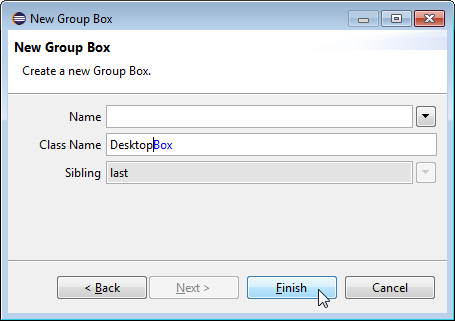
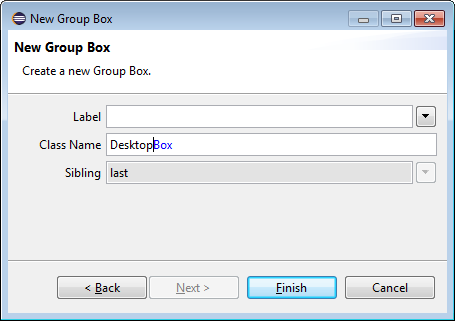
polish helloworld

Changed region(s): [[0.5231, 0.8411, 0.7385, 0.9657], [0.1538, 0.3427, 0.2462, 0.3738]]

diff --git a/tex/modules/HelloWorldBackend.tex b/tex/modules/HelloWorldBackend.tex
@@ -6,15 +6,13 @@
 % =========================================================================== %
 
 
-The responsibility of the server part in our ''Hello World'' application is to provide an initial text content for the message field in the client's user interface.
+The responsibility of the Scout server in our ''Hello World'' application is to provide an initial text content for the message field in the client's user interface.
 We implement this behaviour in the \java{load} method of the server's \java{DesktopService}.
-An empty stub for the \java{load} method and the \java{DesktopService} service have already been created during the initial project creation step described in \secref{create_project_simple}.
-The \java{DesktopService} represents the server service corresponding to the \java{DesktopForm} on the client side.
-This initial setup represents Scout's standard form processing mechanism where client forms and server services typically come in pairs.
+An empty stub for the \java{load} method of the \java{DesktopService} service has already been created during the initial project creation step. 
 
-Whenever the client's user interface displays a form to the user, the client connects to the server and calls the \java{load} method of the corresponding server service.
-We can now add the business logic to the \java{load} method of the server's \java{DesktopService} to implement the desired behaviour.
-And this is the last missing piece to complete the ''Hello World'' application.
+To navigate to the implementation of the desktop service in the Scout SDK, we first expand the blue top-level \node{server} in the Scout Explorer.
+Below the server node, we then expand the \folder{Services} which shows the \element{DesktopService} element.
+Expanding this \element{DesktopService} node, the \java{load} method becomes visible as shown in \figref{helloworld_load_servicemethod}.
 
 \begin{figure}
 \includegraphics[width=14cm]{sdk_server_desktopservice_load.png}
@@ -23,35 +21,40 @@ In this folder the \element{load} method of \element{DesktopService} is selected
 \figlabel{helloworld_load_servicemethod}
 \end{figure}
 
-To navigate to the implementation of the desktop service in the Scout SDK, we first expand the blue top-level \node{server} in the Scout Explorer.
-Below the server node, we then expand the \folder{Services} which shows the \element{DesktopService} element.
-Expanding this \element{DesktopService} node, the \java{load} method becomes visible as shown in \figref{helloworld_load_servicemethod}.
+The \java{DesktopService} represents the server service corresponding to the \java{DesktopForm} on the client side.
+This initial setup represents Scout's default where client forms and server services typically come in pairs.
+Whenever the client's user interface displays a form to the user, the client connects to the server and calls the \java{load} method of the corresponding server service.
+We just need to add our business logic to the \java{load} method of the server's \java{DesktopService}.
 
-\begin{lstlisting}[backgroundcolor=\color{white}]
-  @Override
-  public DesktopFormData load(DesktopFormData formData) throws ProcessingException {
-    //TODO [mzi] Auto-generated method stub.
-    return formData;
-  }
-\end{lstlisting}
-  
 According to the signature of the \java{load} method, a \java{formData} object is passed into this method that is then handed back in the return statement.
-To complete the implementation of the \java{load} method it is sufficient to assign the text 'hello world!' to the message field part of the form data.
-The only line of Java code we write in our ''Hello World'' application is printed below.
-For the complete implementation of the load method see \lstref{helloworld.load}.
+To complete the implementation of the \java{load} method it is sufficient to assign the text 'hello world!' to the message field part of the form data according to the following line.
 
 \begin{lstlisting}[backgroundcolor=\color{white}]
   formData.getMessage().setValue("Hello World!");
 \end{lstlisting}
 
-\lstinputlisting[
-  label=\lstlabel{helloworld.load},
-  caption=Assigning ''Hello World!'' to the form data's message field.,
-  index={DesktopFormData,DesktopProcessService},
-  linerange={10-15},
-  float
-]
-{../code/helloworld/org.eclipse.scout.helloworld.server/src/org/eclipse/scout/helloworld/server/services/DesktopService.java}
+The complete implementation of the load method is provided below.
+With this last element we have completed the Scout ''Hello World'' application.
+
+\begin{lstlisting}[backgroundcolor=\color{white}]
+  @Override
+  public DesktopFormData load(DesktopFormData formData) throws ProcessingException {
+    formData.getMessage().setValue("Hello World!"); 
+    return formData;
+  }
+\end{lstlisting}
+
+\begin{figure}
+\includegraphics[width=4.5cm]{helloworld_swt.png} \hspace{3mm}
+\includegraphics[width=4.5cm]{helloworld_web.png} \hspace{3mm}
+\includegraphics[width=4.5cm]{helloworld_mobile.png}
+\caption{Running the complete ''Hello World!'' application with an SWT client, as a web application and a mobile application.}
+\figlabel{helloworld_finished}
+\end{figure}
+
+We are now ready to run the completed ''Hello World!'' application by first starting the server and then the clients. 
+This results in running clients as shown in \figref{helloworld_finished}. 
+Congratulations, you just have successfully implemented your first Scout client server application!
 
 % =========================================================================== %
 % EOF TeX input file

diff --git a/tex/modules/HelloWorldFrontend.tex b/tex/modules/HelloWorldFrontend.tex
@@ -8,10 +8,12 @@
 The project creation step has created a Scout client that displays an empty desktop form.
 We will now add widgets to the client's desktop form that will later display the ''Hello World!'' message.
 
-To add any widgets to the desktop form we first need to navigate to the \element{DesktopForm} in the Scout Explorer.
-By clicking on the small triangle icon on the left hand side of the \element{DesktopForm} this element is expanded and the \element{MainBox} element becomes visible below.
+To add any widgets to the desktop form, we first need to navigate to the \element{DesktopForm} in the Scout Explorer.
+For this, first navigate to the orange client node in the Scout Explorer view.
+Then, expand the \element{Forms} folder by clicking on the small triangle icon, and further expand the \element{DesktopForm}. 
+As a result, the \element{MainBox} element becomes visible below the desktop form as shown in \figref{new_field_context_menu}. 
 With a click of the right mouse button over the \element{MainBox}, the available context menus are displayed.
-To start the form field wizard we select the \menu{New Form Field ...} as shown in \figref{new_field_context_menu}.
+To start the form field wizard we select the \menu{New Form Field ...}.
 
 \begin{figure}
 \includegraphics[width=8cm]{sdk_new_field_wizard_menu.png} 
@@ -19,14 +21,7 @@ To start the form field wizard we select the \menu{New Form Field ...} as shown 
 \figlabel{new_field_context_menu}
 \end{figure}
 
-% In the steps described below, we use the \wizard{New Form Field} provided by the Scout SDK. 
-% First, we add a group box field to the desktop form.
-% Then, we apply this wizard a second time to add the actual text widget\footnote{
-% Adding top level group boxes to a form helps in structuring the form layout, especially when a form contains a large number of form fields.
-% }.
-%Before we add the actual text field widget to the desktop form, we create a group box widget that will later contain the text field. 
-
-In the first step of the form field wizard shown on in \figref{helloworld_groupboxfield} we choose \java{GroupBox} as the form field type.
+In the first step of the form field wizard shown on in \figref{helloworld_groupboxfield} we choose \java{GroupBox} as the form field type and click on the \button{Next}.
 In the second wizard step, we enter 'Desktop' into the \field{Class Name} before we close the wizard with the \button{Finish}.
 The Scout SDK will then add the necessary Java code for the \java{DesktopBox} in the background.
 
@@ -39,12 +34,12 @@ The Scout SDK will then add the necessary Java code for the \java{DesktopBox} in
 \end{figure}
 
 We can now add the text field widget to the group box just created.
-To do this, we first expand the \element{MainBox} in the Scout Explorer view. 
-This expands the main box node and makes the \element{DesktopBox} element visible.
-On the \element{DesktopBox} we can again use the \menu{New Form Field ...}.
-In the first wizard step, we select \element{StringField} as the form field type and click the \button{Next}.
-In the second wizard step, we enter 'Message' into the \field{Name}.
+To do this, we expand the \element{MainBox} in the Scout Explorer view to access the newly created \element{DesktopBox} element. 
+On the \element{DesktopBox} we can then use the \menu{New Form Field ...} again.
+In the first wizard step, we select \element{StringField} as the form field type. 
+To select the \element{StringField} type you can either scroll down the list of available types or enter ''st'' into the field above the field type list. 
 
+In the second wizard step, we enter 'Message' into the \field{Label}.
 As we do not yet have the text 'Message' available in our ''Hello World'' application the wizard prompts the user with the proposal \textsc{New Translated Text ...}.
 With a double click on this option a new text entry can be added to the application as shown in \figref{helloworld_stringfield}.
 Once we have provided some initial translation for our message label, we can close the translation dialog with the \button{Ok}.
@@ -72,7 +67,7 @@ Make sure that both the Java code and the project structure in the Scout Explore
 Having verified your status of the ''Hello World'' application you can start the application as described in the previous section.
 The client applications will then display your message widget.
 However, the text widget is still empty, as we did not yet load any initial content into it.
-This is the topic of the next section where we continue the tutorial with the server part.
+This is the topic of the next section where we continue this tutorial with the server part.
 
 % =========================================================================== %
 % EOF TeX input file

diff --git a/tex/modules/DownloadAndInstallScout.tex b/tex/modules/DownloadAndInstallScout.tex
@@ -1,0 +1,75 @@
+% =========================================================================== %
+% TeX input file: "download and install scout"
+%
+% WARNING: this tex file does not compile standalone, it needs to be embedded
+% in a master tex document (e.g. ScoutInstallation.tex)
+% =========================================================================== %
+
+Before you can install Scout make sure that you have a working Java Development Kit (JDK) installation of version 7 or 8.
+To download the Eclipse Scout package visit the official Eclipse download page as shown in \figref{scout_download}.
+
+\begin{figure}
+\includegraphics[width=15cm]{scout_download.png}
+\caption{The Eclipse download page. The platform filter is set to Windows and the available Packages are filtered for Scout.}
+\figlabel{scout_download}
+\end{figure}
+
+If the download page shows the wrong platform, manually select the correct platform in the dropdown list.
+As shown in \figref{scout_download}, the Scout package is available as a 32 bit and a 46 bit package. 
+Make sure to pick the package that matches your JDK installation. 
+You can check your installation on the command line as follows.
+
+\begin{lstlisting}[
+  language=console
+]
+console-prompt>java -version
+java version "1.7.0_55"
+Java(TM) SE Runtime Environment (build 1.7.0_55-b13)
+Java HotSpot(TM) 64-Bit Server VM (build 24.55-b03, mixed mode)
+\end{lstlisting}
+
+If the output explicitly mentions the 64 bit installation as shown above, you have a 64 bit installation. 
+Otherwise, you have a 32 bit JDK installed.
+Now you can select the correct Scout package from the Eclipse download site. 
+After the package selection, confirm the suggested download mirror as shown in \figref{scout_download_mirror}.
+
+\begin{figure}
+\includegraphics[width=15cm]{scout_download_mirror.png}
+\caption{Downloading the Scout package from a mirror.}
+\figlabel{scout_download_mirror}
+\end{figure}
+
+As the Scout package is a simple ZIP (or tar.gz) file, you may unpack its content to a folder of your choice.
+Inside the eclipse sub-folder, you will then find the Eclipse executable file, such as the \texttt{eclipse.exe} file on a Windows plattform. 
+Starting the Eclipse executable brings up the workspace launcher as shown in \figref{scout_start}.
+
+\begin{figure}
+\includegraphics[width=15cm]{scout_startup_select_workspace.png}
+\caption{Starting the Eclipse Scout package and selecting an empty workspace.}
+\figlabel{scout_start}
+\end{figure}
+
+Into the \field{Workspace} you enter an empty target directory for your first Scout project. 
+After clicking the \button{Ok}, the Eclipse IDE creates any directories that do not yet exist and opens the specified workspace. 
+When opening a new workspace for the first time, Eclipse then displays the welcome screen shown in \figref{scout_welcome}. 
+
+\begin{figure}
+\includegraphics[width=13cm]{scout_startup_welcome.png}
+\caption{Eclipse Scout welcome screen.}
+\figlabel{scout_welcome}
+\end{figure}
+
+To close the welcome page and open the Scout perspective in the Eclipse IDE click on the \icon{Workbench}. 
+As a result the empty Scout perspective is displayed according to \figref{scout_perspective}. 
+
+\begin{figure}
+\includegraphics[width=13cm]{scout_startup_scout_explorer.png}
+\caption{Eclipse Scout started in the Scout SDK perspective. }
+\figlabel{scout_perspective}
+\end{figure}
+
+Congratulations, you just have successfully completed the Eclipse Scout installation!
+
+% =========================================================================== %
+% EOF TeX input file
+% =========================================================================== %

diff --git a/tex/ScoutInstallation/ScoutInstallation.tex b/tex/ScoutInstallation/ScoutInstallation.tex
@@ -34,7 +34,7 @@ As Scout applications have been built primarily on the Windows platform in the p
 % --------------------------------------------------------------------------- %
 \section{Download and Install a JDK}
 
-The first step to install Scout is to have an existing and working installation of a JDK.
+The first step to install Scout is to have an existing and working installation of a JDK version 7 or 8.
 It is currently recommended to go for the most recent download of Java 7.
 
 Using Scout with Java 8 is possible and has been tested as part of Eclipse release train testing\footnote{
@@ -89,14 +89,12 @@ needs text
 \section{Download and Install Scout}
 \seclabel{download_install}
 
-Installing Eclipse Scout 4.0 requires a working JDK installation of version 7 or 8.
-If this is missing, see the previous section for installation instructions.
+\input{modules/DownloadAndInstallScout}
 
-As the Eclipse Luna release is officially shipping on June 25, 2014 we need to download Scout 4.0 from the download page for the developer builds\footnote{
-Eclipse developer builds download: \url{http://www.eclipse.org/downloads/index-developer.php}
-} until then.
-The download page should look as shown in \figref{scout_download}.
-In this screenshot, the packages available for \textit{Eclipse Luna (4.4) RC3} are shown and \textit{Windows} is preselected in the dropdown list.
+Installing Eclipse Scout 4.0 requires a working JDK installation of version 7 or 8. 
+
+Download the Eclipse Scout package from the official Eclipse download page as shown in  \figref{scout_download}.
+In this screenshot, the packages x	or \textit{Eclipse Luna (4.4.1)} are shown and \textit{Windows} is preselected in the dropdown list.
 Should the download page show the wrong platform in the dropdown list, you will need to choose the correct one manually.
 
 \begin{figure}
@@ -124,7 +122,7 @@ The output will then look similar to the one provided below.
 \begin{lstlisting}[
   language=console
 ]
-C:\Users\scouty>java -version
+your-console-prompt>java -version
 java version "1.7.0_55"
 Java(TM) SE Runtime Environment (build 1.7.0_55-b13)
 Java HotSpot(TM) 64-Bit Server VM (build 24.55-b03, mixed mode)
@@ -136,7 +134,7 @@ See below for an example output of a 32-bit installation.
 \begin{lstlisting}[
   language=console
 ]
-C:\Users\scouty>java -version
+your-console-prompt>java -version
 java version "1.7.0_55"
 Java(TM) SE Runtime Environment (build 1.7.0_55-b13)
 Java HotSpot(TM) Client VM (build 24.55-b03, mixed mode, sharing)

diff --git a/tex/modules/CreateNewProject.tex b/tex/modules/CreateNewProject.tex
@@ -19,8 +19,6 @@ To create a new Scout project select the \contextmenu{New Scout Project...} as s
 In the \wizard{New Scout Project} enter a name for you Scout project. 
 As we are creating a ''Hello World'' application, use \java{org.eclipsescout.helloworld} for the \field{Project Name} according to \figref{sdk_new_project_wizard}.
 Then, click the \button{Finish} to let the Scout SDK create the initial project code for you.
-Once the initial project code is built, the Scout SDK displays the application model in the \textit{Scout Explorer}.
-This model is visually presented as a tree structure covering both the client and the server part of the application.
 
 \begin{figure}
 \includegraphics[width=6cm]{sdk_new_project_2.png}
@@ -29,7 +27,9 @@ This model is visually presented as a tree structure covering both the client an
 \figlabel{sdk_new_project_wizard}
 \end{figure}
 
-In \figref{sdk_initial_helloworld_project} the Scout Explorer displays the top level elements of the complete Scout application.
+Once the initial project code is built, the Scout SDK displays the application model in the \textit{Scout Explorer} as shown in \figref{sdk_initial_helloworld_project}.
+This model is visually presented as a tree structure covering both the client and the server part of the application.
+The Scout Explorer view on the left hand side displays the top level elements of the complete Scout application.
 Under the orange node the Scout client components are listed. 
 Components that are needed in both the Scout client and the Scout server are collected under the green node.
 And the Scout server components are listed below the blue node in the Scout Explorer view.

diff --git a/tex/modules/RunTheApplication.tex b/tex/modules/RunTheApplication.tex
@@ -29,7 +29,6 @@ During startup of the Scout server you should see console output similar to the 
 Once the server is running, you may start the web client as shown in \figref{start_client}.
 To start the Swing client, or the SWT client use the corresponding green \icon{Circle} or \icon{Bug}.
 And with a running RAP client, the Scout web client can be opened in a web browser by clicking on the provided \link{Automatic Device Dispatch}.
-Alternatively, open a a browser and manually type the address \texttt{http://localhost:8082/web} into the browser's navigation bar.
 
 \begin{figure}
 \includegraphics[width=4.5cm]{hellworld_empty_rap.png} \hspace{3mm}
@@ -41,7 +40,7 @@ From left to right: The web client, the Swing client, and the SWT client}
 \figlabel{helloworld_empty}
 \end{figure}
 
-Having started the Scout server and all client products, the client applications should become visible as shown in \figref{helloworld_empty}.
+Having started the Scout server and all client products, the running client applications should look as shown in \figref{helloworld_empty}.
 
 % =========================================================================== %
 % EOF TeX input file

diff --git a/tex/helloworld.tex b/tex/helloworld.tex
@@ -9,6 +9,9 @@
 \begin{document}
 
 % --------------------------------------------------------------------------- %
+\section{Download and Install Scout}
+\input{modules/DownloadAndInstallScout}
+% --------------------------------------------------------------------------- %
 \section{Create a new Project}
 \input{modules/CreateNewProject}
 % --------------------------------------------------------------------------- %
